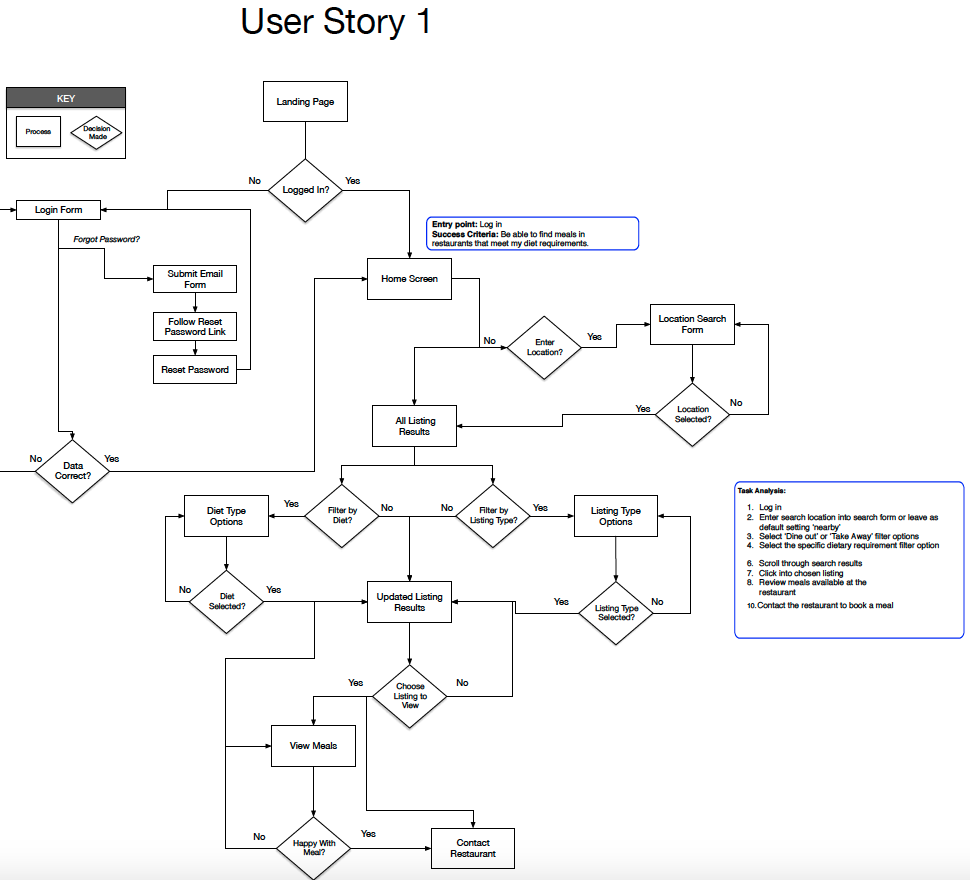
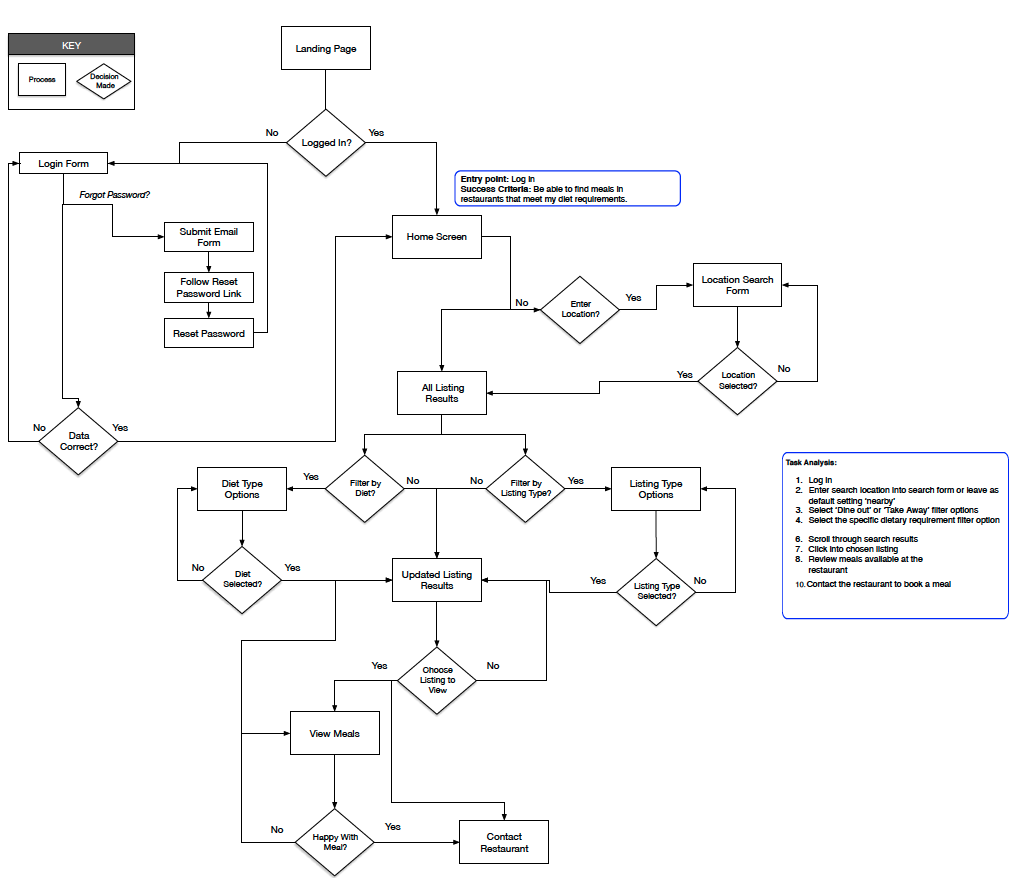
added user flows

diff --git a/portfolio/healthymove.html b/portfolio/healthymove.html
@@ -62,7 +62,7 @@
 
   <div class="col-xs-12 no-gutter">
        <div class="healthy_banner">
-	     <img src="../assets/images/4screens_crop.png" style="width:100%;" class="img-responsive" alt="black_coffee">
+	     <img src="../assets/images/4screens_crop.png" style="width:100%;" class="img-responsive" alt="4large_Screens">
 	     </div>
 	     
 	    
@@ -127,10 +127,10 @@
 	      
 	       </div>
 	        <div class="col-xs-6 col-sm-3 col-md-3">
-	     <img src="../assets/images/Explore.png" style="background-color:#FFF;" class="img-responsive" alt="black_coffee">
+	     <img src="../assets/images/Explore.png" style="background-color:#FFF;" class="img-responsive" alt="Explore">
 	      </div>
 	       <div class="col-xs-6 col-sm-3 col-md-3">
-	      <img src="../assets/images/Fowlers_web.png" style="background-color:#FFF;" class="img-responsive" alt="black_coffee">
+	      <img src="../assets/images/Fowlers_web.png" style="background-color:#FFF;" class="img-responsive" alt="Fowlers">
 	      </div>
         </div><!-- close row -->
        
@@ -138,7 +138,7 @@
         <div class="row">
 <div class="col-xs-10 col-sm-5 col-md-5 col-md-offset-1">
                  
-                       <h2 class="green-hex"><b>Objective</b></h2>
+                       <h1 class="green-hex"><b>Objective</b></h1>
                        </div>
                        <div class="col-xs-11 col-xs-offset-1">
                        <p class="portfolio-detail-body">From conducting online research it became evident that 
@@ -167,7 +167,7 @@
 	    <div class="row">
 <div class="col-xs-12 col-sm-5 col-md-5 col-md-offset-1">
                  
- <h2 class="green-hex"><b>Competitive Analysis</b></h2>
+ <h1 class="green-hex"><b>Competitive Analysis</b></h1>
  </div>
  <div class="col-xs-11 col-xs-offset-1">
 	   <p class="portfolio-detail-body">I conducted a competitive analysis on two leading dietary apps - 'Happy Cow' and
@@ -244,7 +244,7 @@ to find gluten free food when compared to other restaurant search apps.
   </tr>	   
 </table>  
             
-    <h2 class="green-hex"><b>User Interviews</b></h2>
+    <h1 class="green-hex"><b>User Interviews</b></h1>
              <p class="portfolio-detail-body">The next research phase was to conduct a number of 30 minute interviews with potential users of the new
              app. Interviews were initially arranged by emailing potential respondents to arrange a suitable time and method for the interview.
              Interviews were conducted via Skype as well as in person. 
@@ -305,7 +305,7 @@ to find gluten free food when compared to other restaurant search apps.
                </table>
                
                
-                      <h2 class="green-hex"><b>User Personas</b></h2>
+                      <h1 class="green-hex"><b>User Personas</b></h1>
                       
                       
                       <p class="portfolio-detail-body">
@@ -315,13 +315,13 @@ to find gluten free food when compared to other restaurant search apps.
                       </p>
                 
           <div class="col-xs-6 col-sm-4 col-md-4">
-	      <img src="../assets/images/Personaltrainer.png" style="background-color:#FFF;" class="img-responsive" alt="black_coffee">
+	      <img src="../assets/images/Personaltrainer.png" style="background-color:#FFF;" class="img-responsive" alt="Personaltrainer">
 	      </div>
 	       <div class="col-xs-6 col-sm-4 col-md-4">
-	       <img src="../assets/images/Businessman.png" style="background-color:#FFF;" class="img-responsive" alt="black_coffee">
+	       <img src="../assets/images/Businessman.png" style="background-color:#FFF;" class="img-responsive" alt="Businessman">
 	       </div>
 	        <div class="col-xs-6 col-sm-4 col-md-4">
-	      <img src="../assets/images/Businesswoman.png" style="background-color:#FFF;" class="img-responsive" alt="black_coffee">
+	      <img src="../assets/images/Businesswoman.png" style="background-color:#FFF;" class="img-responsive" alt="Businnesswoman">
 	      </div>
                
                
@@ -335,6 +335,7 @@ to find gluten free food when compared to other restaurant search apps.
 	      <div class="col-xs-10 col-sm-5 col-md-5">
 	     <h1 class="green-hex number-heading">
 	         <b>Ideation and Design</b></h1>
+	         <h1 class="green-hex"><b>User Flows</b></h1>
 	         </div>
 	          <div class="col-xs-11 col-xs-offset-1">
 	          <p class="portfolio-detail-body">
@@ -343,12 +344,48 @@ to find gluten free food when compared to other restaurant search apps.
 	         users I mapped out the primary screens of the app from login to end goal. 
 	        A number of user stories were created that led to the development of user flows.
 	         It was important to make the user journey flow intuitively so it was a simple process from beginning to end.
+	         A sample of some of the user flows that were created can be viewed in this section.
 	         </p>
-	         
-	         <P class="portfolio-detail-body"><B><I>"As someone that has a speciﬁc dietary requirement
+	         <h2>User Story 1</h2>
+	         <P class="portfolio-detail-body"><I>"As someone that has a speciﬁc dietary requirement
                 I want to be able to ﬁnd meals in restaurants that meet my needs so that I know they have suitable food available before I go there"
-                </I></B></p>
-	         <img src="../assets/images/userstory1.png" style="background-color:#FFF;" class="img-responsive" alt="black_coffee">
+                </I></p>
+	         <img src="../assets/images/userstory1.png" style="background-color:#FFF;" class="img-responsive" alt="userstory1">
+	  
+	         <h2>User Story 2</h2>
+	         <P class="portfolio-detail-body"><I>“As someone that has a speciﬁc dietary requirement
+                I want to be able to ﬁnd suitable food when I’m on the go so that I don’t break my diet”
+                </I></p>
+	         <img src="../assets/images/userstory2.png" style="background-color:#FFF;" class="img-responsive" alt="userstory2">
+	  
+	         <h2>User Story 3</h2>
+	         <P class="portfolio-detail-body"><I>“As someone that has a speciﬁc dietary requirement
+                I want to be able to easily ﬁnd a restaurant where I’ve eaten before so that I can add it to my favourites list"
+                </I></p>
+	         <img src="../assets/images/userstory3.png" style="background-color:#FFF;" class="img-responsive" alt="userstory3">
+	  
+	           <h2>Connected User Flow Diagram</h2>
+	           
+	           <img src="../assets/images/alluserflows.png" style="background-color:#FFF;" class="img-responsive" alt="allflows">
+	           
+	           
+	             <h1 class="green-hex"><b>Exploratory Sketching & Rapid Prototyping</b></h1>
+	             
+	             <p class="portfolio-detail-body">
+                        The user flows formed the foundation for initial design sketches. The 'crazy 8' rapid sketching method was used whereby an A4 sized
+                        piece of paper is folder into 8 squares and a 60 second timelimit per square is given to sketch out initial ideas. Different iterations
+                        of sketching were used to develop ideas for the needed screens and features. A dot vote was used to mark the best ideas from the sketches.
+                        The dot voted designs were pooled together to create a paper prototype for the app. Prott was used to develop the interactive prototype.
+                        <br><br>
+                        
+                          <h2>
+                        <a class="green-hex" href="https://prottapp.com/p/f1d0b9#/s/5dd2be1386e4650fd0a28a42">Prott Prototype</a>
+                        </h2>
+                </p>
+                
+                
+                
+	             
 	   </div>
 	   </div>
                
